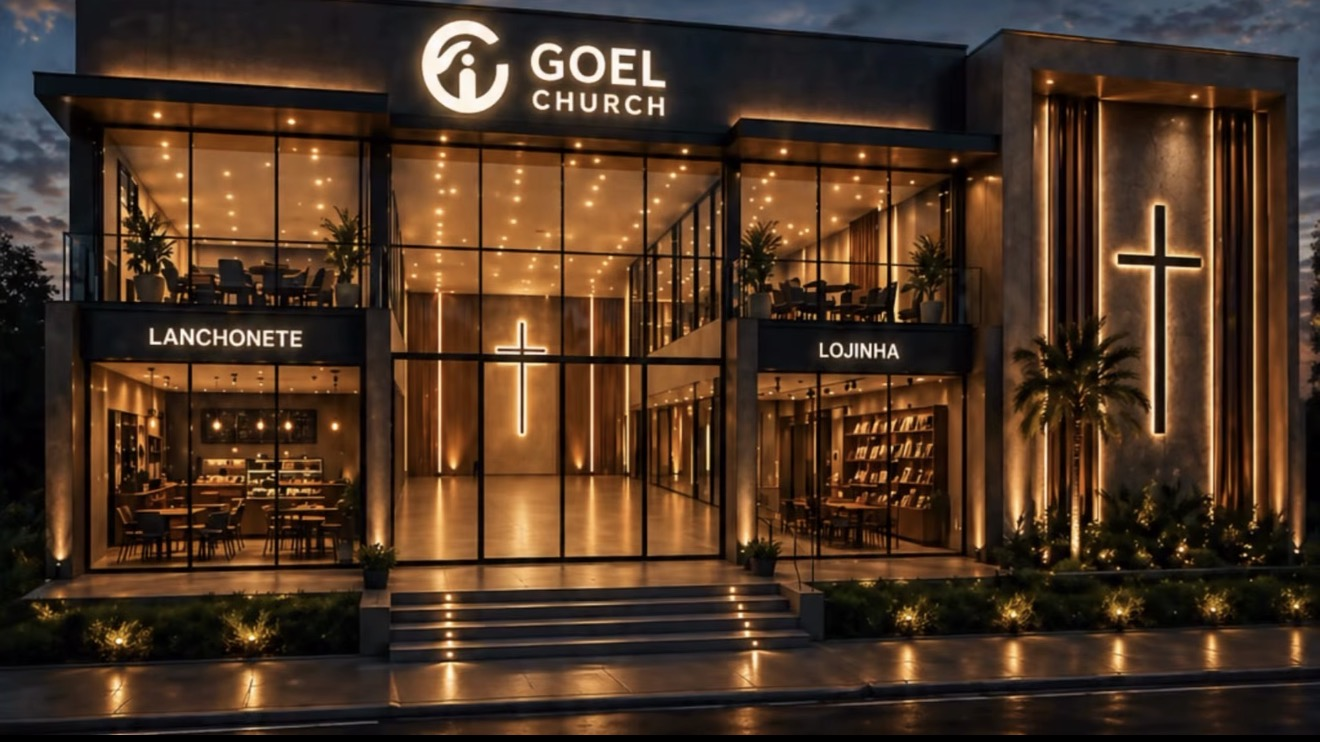
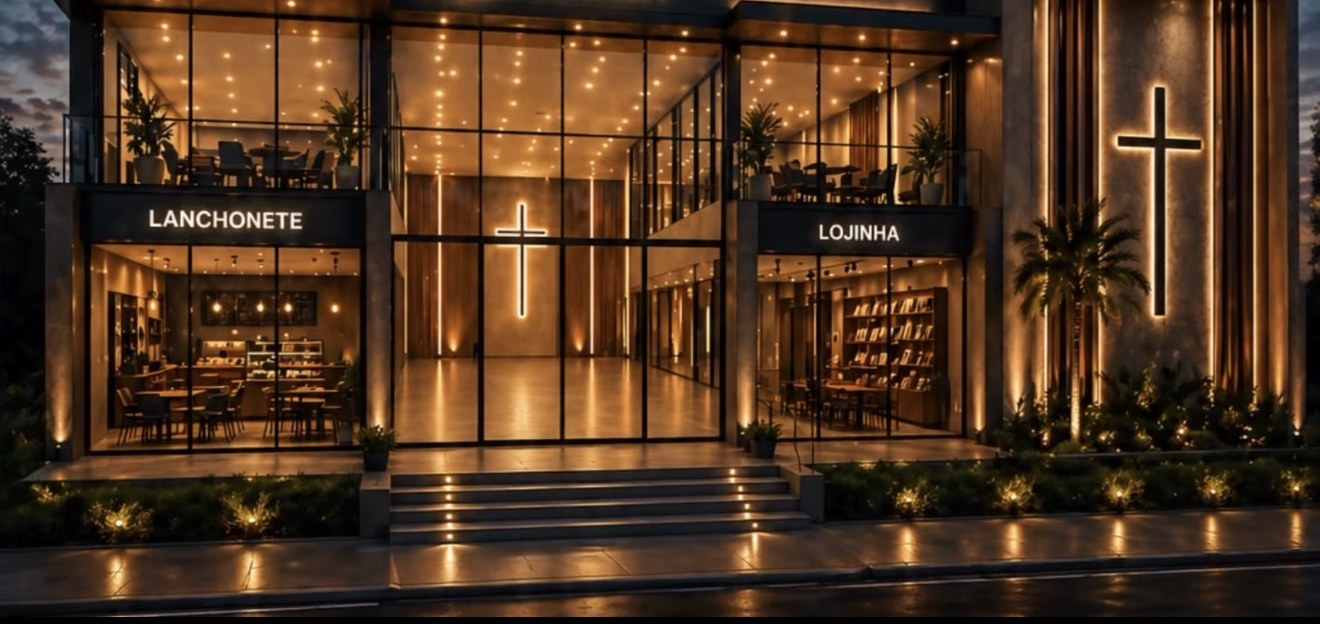
feat(splash): Sprint 1 FREEZE — reenquadra fachada (remove placa do topo) + alignment central

diff --git a/lib/bootstrap/bootstrap_screen.dart b/lib/bootstrap/bootstrap_screen.dart
@@ -53,7 +53,9 @@ class _BootstrapScreenState extends State<BootstrapScreen>
             child: Image.asset(
               _bgAsset,
               fit: BoxFit.cover,
-              alignment: Alignment.center,
+              // Enquadramento: leve viés para o centro/entrada (destaca a
+              // entrada principal, a cruz e a arquitetura central).
+              alignment: const Alignment(0, 0.25),
               // Fallback caso o asset real ainda não tenha sido adicionado.
               errorBuilder: (_, __, ___) =>
                   const ColoredBox(color: Color(0xFF14210F)),
